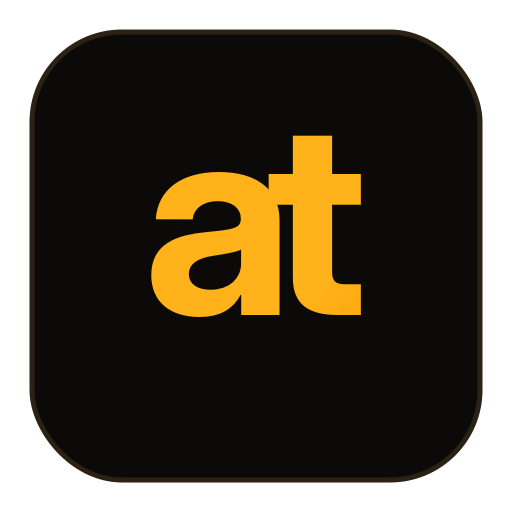
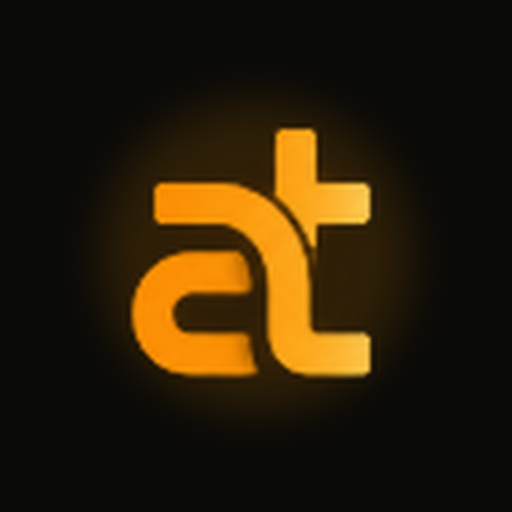
feat: apply real atnetto '@' symbol (v2 brand kit)
Replace text-based 'at' wordmark with the official vectorized flat
@-symbol from the brand kit v2. Update favicons to match.

diff --git a/components/Brand.tsx b/components/Brand.tsx
@@ -3,87 +3,106 @@ type Size = "sm" | "md" | "lg" | "xl";
 const sizeMap: Record<Size, number> = { sm: 32, md: 44, lg: 72, xl: 128 };
 
 /**
- * BrandMark — official "at" mark (orange gradient wordmark).
- * Uses Inter Display ExtraBold rendered as SVG text.
+ * Official atnetto "@" symbol — flat-design vectorized at-sign.
+ * Path source: brand kit v2 (atnetto_logo_at_symbol_package).
  */
-export function BrandMark({ size = "sm", withCard = false }: { size?: Size; withCard?: boolean }) {
+const AT_PATH =
+  "M 46 6 L 37 7 L 35 20 L 26 17 L 13 17 L 10 19 L 11 28 L 27 29 L 29 31 L 26 33 L 15 33 L 7 39 L 5 43 L 5 52 L 8 57 L 13 61 L 33 62 L 34 58 L 32 51 L 18 51 L 16 49 L 16 46 L 18 44 L 32 44 L 34 40 L 35 41 L 35 55 L 39 60 L 43 62 L 58 62 L 59 61 L 58 51 L 49 51 L 46 49 L 47 31 L 51 28 L 59 27 L 59 19 L 56 17 L 49 17 L 47 15 Z";
+
+/**
+ * BrandMark — the official "@" symbol in atnetto orange.
+ * Pass `glow` for the soft-shadow version (use on dark surfaces).
+ */
+export function BrandMark({
+  size = "sm",
+  color = "#FF9A00",
+  glow = false,
+}: {
+  size?: Size;
+  color?: string;
+  glow?: boolean;
+}) {
   const s = sizeMap[size];
-  const id = `bm-${size}`;
+  const id = `bm-${size}-${glow ? "g" : "f"}`;
   return (
     <svg
       width={s}
       height={s}
-      viewBox="0 0 1024 1024"
+      viewBox="0 0 65 68"
       xmlns="http://www.w3.org/2000/svg"
       aria-label="atnetto.tech"
     >
-      <defs>
-        <filter id={`${id}-glow`} x="-40%" y="-40%" width="180%" height="180%">
-          <feGaussianBlur stdDeviation="8" result="blur" />
-          <feColorMatrix
-            in="blur"
-            type="matrix"
-            values="1 0 0 0 1  0 0.55 0 0 0.55  0 0 0 0 0  0 0 0 0.75 0"
-            result="glow"
-          />
-          <feMerge>
-            <feMergeNode in="glow" />
-            <feMergeNode in="SourceGraphic" />
-          </feMerge>
-        </filter>
-        <linearGradient id={`${id}-grad`} x1="0" y1="0" x2="1" y2="1">
-          <stop offset="0%" stopColor="#FFB21A" />
-          <stop offset="55%" stopColor="#FF9A00" />
-          <stop offset="100%" stopColor="#E98E0E" />
-        </linearGradient>
-      </defs>
-      {withCard && (
-        <rect x="64" y="64" width="896" height="896" rx="180" fill="#0B0A08" stroke="#2B2114" strokeWidth="10" />
+      {glow && (
+        <defs>
+          <filter id={`${id}-shadow`} x="-30%" y="-30%" width="160%" height="160%">
+            <feGaussianBlur stdDeviation="1.2" result="b" />
+            <feColorMatrix
+              in="b"
+              type="matrix"
+              values="1 0 0 0 1  0 0.55 0 0 0.55  0 0 0 0 0  0 0 0 0.7 0"
+              result="g"
+            />
+            <feMerge>
+              <feMergeNode in="g" />
+              <feMergeNode in="SourceGraphic" />
+            </feMerge>
+          </filter>
+        </defs>
       )}
-      <g filter={`url(#${id}-glow)`}>
-        <text
-          x="512"
-          y="630"
-          textAnchor="middle"
-          fontFamily="'Inter Display', Inter, Arial, sans-serif"
-          fontSize="545"
-          fontWeight="900"
-          letterSpacing="-55"
-          fill={`url(#${id}-grad)`}
-        >
-          at
-        </text>
+      <g fill={color} filter={glow ? `url(#${id}-shadow)` : undefined}>
+        <path d={AT_PATH} />
       </g>
     </svg>
   );
 }
 
 /**
- * BrandWordmark — full logo: "at" mark + "atnetto.tech" text + tagline.
- * Use in hero, footer, large surfaces.
+ * BrandWordmark — official "@" + "atnetto.tech" text + tagline (optional).
  */
-export function BrandWordmark({ size = "md" }: { size?: "sm" | "md" | "lg" }) {
+export function BrandWordmark({
+  size = "md",
+  withTagline = false,
+}: {
+  size?: "sm" | "md" | "lg";
+  withTagline?: boolean;
+}) {
   const fontSize = size === "sm" ? 16 : size === "md" ? 22 : 32;
+  const markSize: Size = size === "lg" ? "md" : "sm";
   return (
     <span className="inline-flex items-center gap-2.5">
-      <BrandMark size="sm" />
-      <span
-        className="font-black tracking-tight"
-        style={{
-          fontFamily: "'Inter Display', Inter, var(--font-geist-sans), sans-serif",
-          color: "#F5F5F5",
-          fontSize,
-          letterSpacing: "-0.04em",
-        }}
-      >
-        atnetto<span style={{ color: "#FF9A00" }}>.tech</span>
+      <BrandMark size={markSize} />
+      <span className="inline-flex flex-col leading-none">
+        <span
+          className="font-extrabold tracking-tight"
+          style={{
+            fontFamily: "var(--font-inter), Inter, sans-serif",
+            color: "#F5F5F5",
+            fontSize,
+            letterSpacing: "-0.03em",
+          }}
+        >
+          atnetto<span style={{ color: "#FF9A00" }}>.tech</span>
+        </span>
+        {withTagline && (
+          <span
+            className="mt-1.5"
+            style={{
+              fontSize: fontSize * 0.32,
+              letterSpacing: "0.18em",
+              color: "#767676",
+              fontFamily: "var(--font-inter), Inter, sans-serif",
+            }}
+          >
+            TECNOLOGIA · AUTOMAÇÃO · SUPORTE
+          </span>
+        )}
       </span>
     </span>
   );
 }
 
 /**
- * CornerBrackets — decorative motif (kept for sparing use only).
+ * CornerBrackets — decorative motif (kept for sparing use).
  */
 export function CornerBrackets({
   color = "rgba(255,154,0,0.35)",
